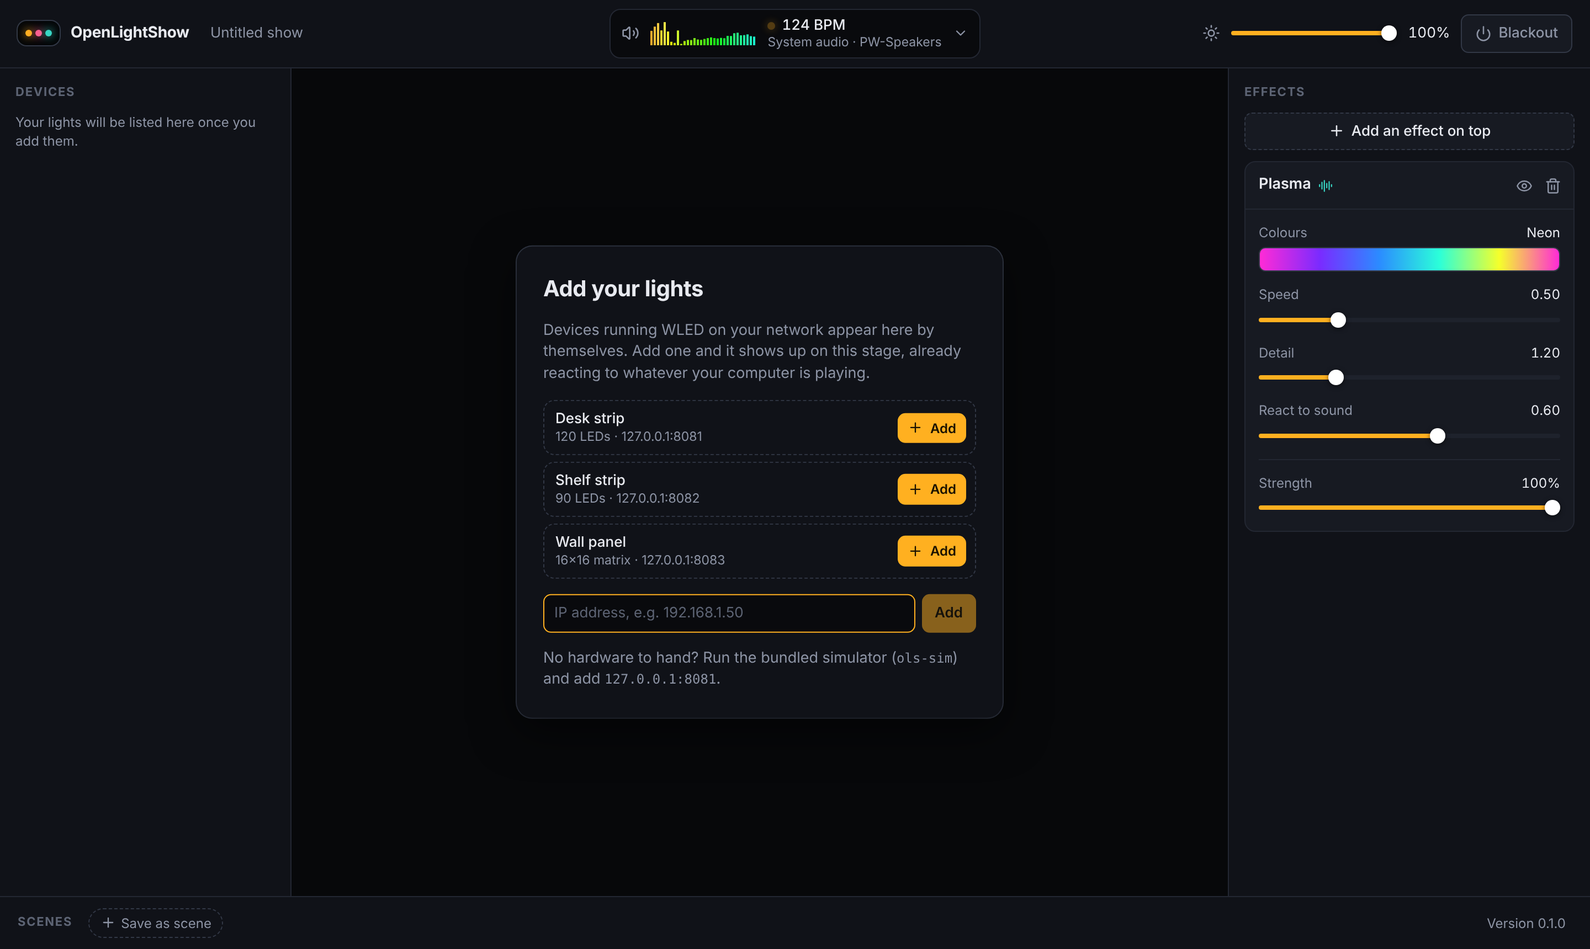
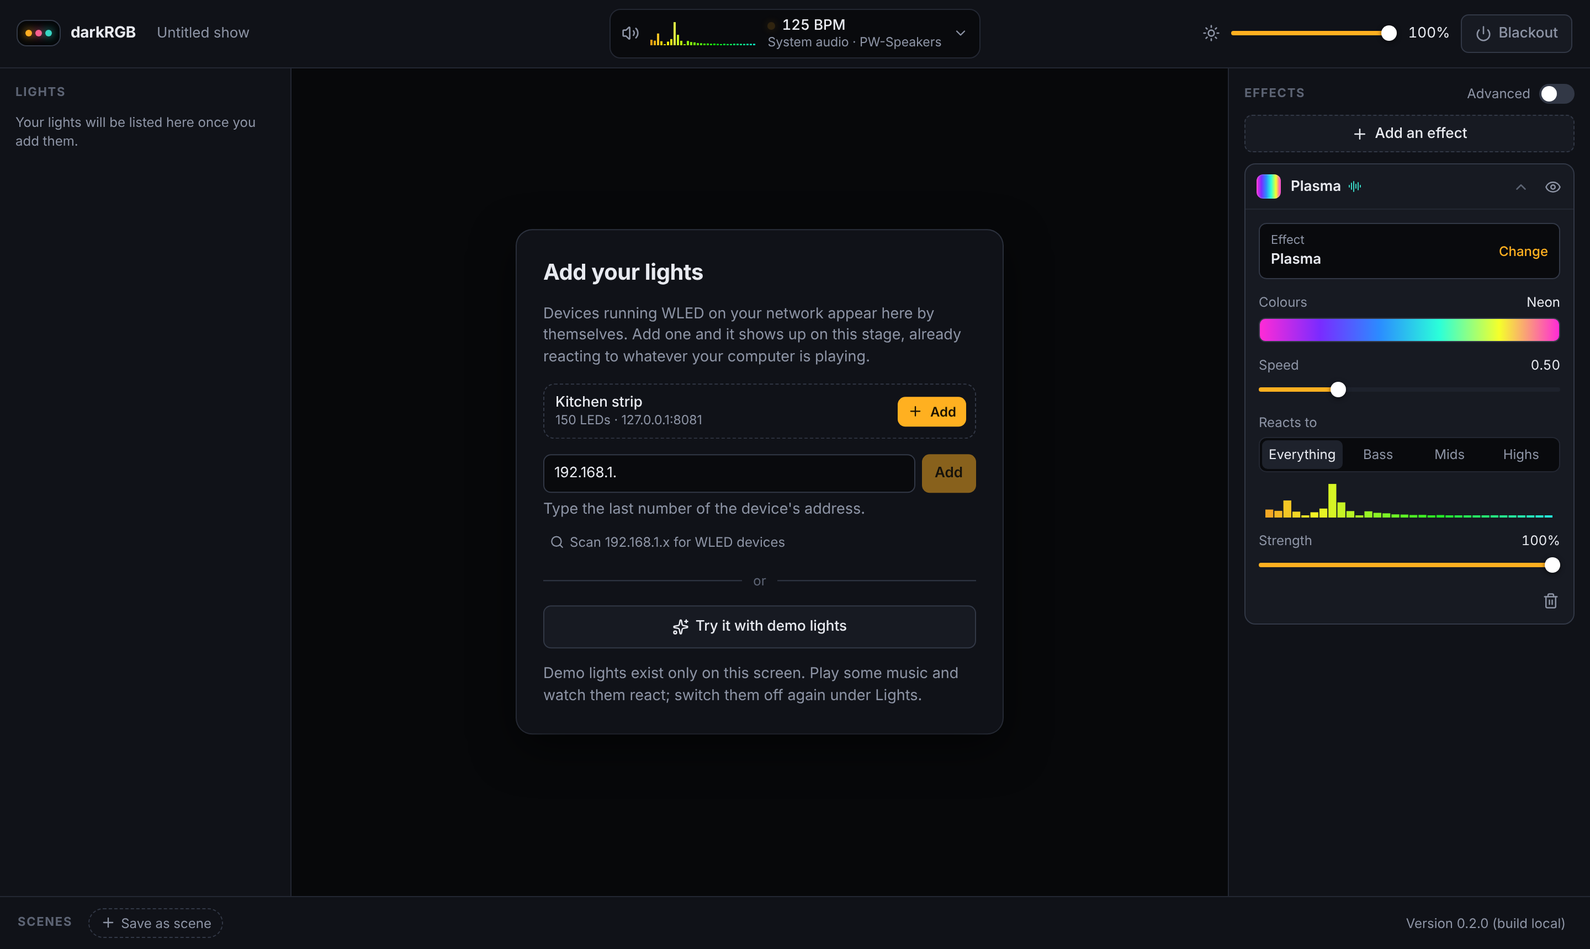
CI for dev with versioned downloads; docs for 0.2.0
- CI runs on dev and main, builds the app window too, names the zips
  darkRGB-<version>-build<n>-<platform>, keeps them a week, and passes
  the build number into the programs.
- README, roadmap and architecture describe darkRGB 0.2.0: the app
  window, demo and virtual lights, sound per layer, the network scan.
  The Windows audio check is recorded as passed.
- Fresh screenshots, including the app in its own window.

diff --git a/docs/architecture.md b/docs/architecture.md
@@ -1,7 +1,7 @@
 # Architecture
 
-Decided on 2026-11-10. As of version 0.1.0 the engine, the device simulator and the UI exist; the desktop
-shell, live mode and the timeline do not. Sections say which parts are built. Items marked **(to verify)** are
+Decided on 2026-11-10. As of version 0.2.0 the engine, the app window, the UI and the device simulator exist;
+live mode and the timeline do not. Sections say which parts are built. Items marked **(to verify)** are
 assumptions that the checks in [roadmap.md](roadmap.md) test.
 
 ## Why installed software, not a website
@@ -25,7 +25,7 @@ a phone on the same network can open it as a remote. A public website is only ne
 |---|---|---|
 | Engine | Rust, a headless process | Steady 60 fps with no garbage-collector pauses; good audio, MIDI and network crates |
 | UI | TypeScript, React, Vite | Largest contributor pool; modern look is easy; WebGL2 for the preview, Canvas for the timeline |
-| Desktop shell | Tauri v2 (not built yet; the UI opens in the browser) | Small installers, auto-update, Windows and Linux packaging |
+| Desktop shell | Tauri v2 | One window with the engine in the same process; installers and auto-update later |
 | Engine to UI | WebSocket and HTTP on localhost | Keeps the shell replaceable; also serves the phone remote and a headless mode |
 
 ```mermaid
@@ -55,9 +55,13 @@ Tauri uses the system WebKitGTK on Linux. Tauri's docs carry a page of workaroun
 WebGPU is not confirmed there, and the Chromium (CEF) backend for Tauri has no release date.
 [Tauri Linux graphics](https://v2.tauri.app/develop/debug/linux-graphics/)
 
-Mitigation: the UI talks to the engine only over the WebSocket, never through Tauri-specific calls for show
-logic. If WebKitGTK is too slow, the same UI runs in Electron on Linux with no engine changes. Design for WebGL2,
-not WebGPU.
+Mitigation: the UI talks to the engine only over the WebSocket, never through Tauri-specific calls. The page
+in the window is given no access to the system at all. `darkrgb-cli` serves the same UI to any browser, which
+is the fallback today, and the same UI would run in Electron on Linux with no engine changes. Design for
+WebGL2, not WebGPU.
+
+Status: the window works on Linux under a virtual display with WebKitGTK 2.52, including the WebGL2 preview.
+Its speed on a real graphics card is not measured.
 
 ### Alternatives considered
 
@@ -72,7 +76,9 @@ not WebGPU.
 
 ### Layout
 
-- A **device** is something on the network: a WLED box, an sACN controller.
+- A **device** is something that shows pixels. It is either a WLED box on the network or a **virtual** light,
+  which exists only in the preview and is never sent anywhere. The built-in demo lights are three virtual
+  lights added and removed as a set.
 - A **fixture** is a strip, matrix or custom shape on a device output, with a pixel count and a position on a 2D
   canvas (3D later).
 - **Groups** collect fixtures.
@@ -99,8 +105,23 @@ not WebGPU.
 - Every change goes through a command. The same commands will serve the UI, the phone remote, MIDI mappings
   and recording. Commands are validated in one place (`crates/engine/src/commands.rs`). Undo is not built.
 
-Built so far: layers that are always on (the audio-reactive case), four blend modes, scenes. Clips with start
-and stop times, modulators other than audio, and recording are not built.
+Built so far: layers that are always on (the audio-reactive case), four blend modes, scenes, and per-layer
+sound settings (below). Clips with start and stop times, modulators on individual parameters, and recording
+are not built.
+
+### What a layer hears
+
+Each layer has sound settings: a **band** (everything, bass, mids, highs, or a custom range across the 32
+bands), a **sensitivity**, and how much its **brightness follows the sound**. The renderer hands each effect
+its own view of the audio (`AudioFeatures::routed` in `crates/core/src/audio.rs`): the level, the bands
+(spread across the full width), and hit detection all come from the chosen part of the spectrum. The beat is
+left alone, since it follows the tempo of the whole song. Effects need no code for any of this.
+
+### Simple first
+
+Every parameter is marked basic or advanced, and the defaults of advanced ones must give a good result
+untouched. The UI shows only basic settings until its Advanced switch is on. Effects also carry a category,
+which groups them in the picker.
 
 ### Effects
 
@@ -124,7 +145,7 @@ and stop times, modulators other than audio, and recording are not built.
 
 | OS | Method | Status |
 |---|---|---|
-| Windows | WASAPI loopback of the default output, through `cpal`: opening an output device as an input stream enables loopback. Needs no driver or user setting. [Microsoft](https://learn.microsoft.com/en-us/windows/win32/coreaudio/loopback-recording) | Written and compiles for Windows; not yet run on Windows |
+| Windows | WASAPI loopback of the default output, through `cpal`: opening an output device as an input stream enables loopback. Needs no driver or user setting. [Microsoft](https://learn.microsoft.com/en-us/windows/win32/coreaudio/loopback-recording) | Passed `audio-test` on one Windows PC (100% of audio received) |
 | Linux | The monitor source of the default sink, through the PulseAudio protocol with the pure-Rust `pulseaudio` client. PipeWire answers the same protocol. | Tested on PulseAudio 16.1 and PipeWire 1.0.5 |
 | macOS | A CoreAudio tap on the default output through `cpal` (macOS 14.6+) | Same code path as Windows; untested |
 
@@ -138,8 +159,12 @@ all of it.
 - Analysis (`crates/audio/src/analysis.rs`): mono mix, a 2048-sample windowed FFT every 512 samples at
   48 kHz, 32 mel bands, automatic gain, onset detection by spectral flux, and a tempo and beat tracker
   (autocorrelation of onset strength, 70 to 190 BPM). Tap tempo is not built.
-- Each band is levelled against its own recent peaks, so treble shows next to a loud kick. The tempo tracker
-  uses the unlevelled signal, weighted toward bass, so hi-hats are not mistaken for the beat.
+- Each band, each group (bass, mids, treble) and the overall level is read between its own recent quiet level
+  and recent peak, so treble shows next to a loud kick and a steady bass line does not hide the kick on top
+  of it. The tempo tracker uses the unlevelled signal, weighted toward bass, so hi-hats are not mistaken for
+  the beat.
+- Hits are detected for the whole spectrum and for bass, mids and treble separately. A group far quieter than
+  the loudest group (22 dB) is treated as spill, so a kick's click is not a treble hit.
 - Latency offset per device. Loopback audio arrives before a Bluetooth speaker plays it, so lights sometimes need
   to be delayed, not sped up.
 - Optional later on Windows: capture one application only, so notification sounds do not flash the lights
@@ -150,7 +175,10 @@ all of it.
 
 ### WLED (first-class)
 
-- **Discovery:** mDNS service `_wled._tcp`.
+- **Discovery:** mDNS service `_wled._tcp`. When that finds nothing (multicast blocked, some Windows setups),
+  the user can scan: the engine asks all 254 addresses of a /24 network for `/json/info`. It runs only on
+  request and only on private address ranges. The UI pre-fills the address field with this computer's network
+  prefix, since devices are almost always on the same network.
 - **Auto-setup:** `GET /json/info` gives `leds.count`, `leds.matrix.w` and `.h` for 2D setups, `name`, `mac`,
   `ver`, `arch`, and whether another source is streaming (`live`, `lm`, `lip`).
   [JSON API](https://kno.wled.ge/interfaces/json-api/)
@@ -236,6 +264,8 @@ Planned: a folder per show with a `media/` folder for songs and images. Shared s
 | WLED HTTP | `ureq` | Requests never go through a system proxy |
 | Server | `axum`, `tokio` | |
 | Embedding the UI | `rust-embed` | The built UI is compiled into the program |
+| App window | `tauri` 2, `tauri-plugin-single-instance` | The window loads the engine's own local URL |
+| Local networks | `if-addrs` | For suggesting addresses and scanning |
 | Frame pacing | `spin_sleep` | |
 
 Planned: `midir` (MIDI), `sacn` (sACN), own code for Art-Net, `symphonia` (song decoding).
@@ -249,13 +279,12 @@ and file formats).
 
 ```
 crates/
-  darkrgb-core/     layout, layers, effects, renderer (no I/O)
-  darkrgb-audio/    capture and analysis
-  darkrgb-output/   DDP, WLED info, discovery
-  darkrgb-engine/   the program: frame loop, commands, server, diagnostics
-  darkrgb-sim/      a pretend WLED device for tests and demos
-ui/             React + Vite
+  core/      layout, layers, effects, renderer (no I/O)
+  audio/     capture and analysis
+  output/    DDP, WLED info, discovery, network scan
+  engine/    the engine as a library (`Engine::start`), and darkrgb-cli
+  desktop/   darkrgb: the app window
+  sim/       a pretend WLED device for tests
+ui/          React + Vite
 docs/
 ```
-
-Planned: `apps/desktop/` for the Tauri shell.

diff --git a/README.md b/README.md
@@ -10,66 +10,82 @@ between them:
 It targets ESP32 controllers running [WLED](https://kno.wled.ge/) first, then generic sACN and Art-Net pixel
 controllers.
 
-![The app with two strips and a matrix reacting to music](docs/images/main.png)
+![darkRGB with demo lights reacting to music](docs/images/main.png)
 
 ## Status
 
-Version 0.1.0, in development. The first mode, audio-reactive, works end to end against simulated devices on
-Linux. The automated tests also pass on Windows, but nobody has run the app there yet, and it has never driven
-real WLED hardware; see [docs/roadmap.md](docs/roadmap.md) for what is proven and what is not. Live and
-timeline modes are not started.
+Version 0.2.0, in development. The first mode, audio-reactive, works end to end. Live and timeline modes are not
+started.
+
+| | Linux | Windows |
+|---|---|---|
+| Automated tests | pass | pass |
+| System audio with no setup | works (PulseAudio and PipeWire, tested with virtual speakers) | works (checked on one Windows PC) |
+| The app window | works (tested under a virtual display) | builds; not yet run by anyone |
+| Real WLED hardware | not yet tried | not yet tried |
+
+The effects have only met synthetic test songs so far, so expect them to need tuning against real music. See
+[docs/roadmap.md](docs/roadmap.md) for the details.
 
 What works today:
 
-- Finds WLED devices on the network (mDNS) or adds them by IP address, and reads their LED count and matrix size.
-- Streams 60 frames per second over DDP.
-- Captures system audio with no setup and analyses it: loudness, 32 frequency bands, onsets, tempo and beats.
-- Ten effects with live controls, stacked in layers, each on all lights or chosen ones.
+- Opens as one window. Finds WLED devices on the network, adds them by address, or scans the network for them.
+- Demo lights and virtual lights that exist only on screen, for trying effects and planning layouts without
+  hardware.
+- Captures system audio with no setup and analyses it: loudness, 32 frequency bands, hits in bass, mids and
+  highs, tempo and beats.
+- Ten effects in layers. Each can play on all lights or chosen ones, and react to everything, bass, mids,
+  highs or a frequency range you pick.
 - A live preview where strips and matrices are arranged by dragging.
 - Scenes, master brightness and blackout. The show saves itself.
-
-The UI opens in your browser for now. A desktop window (Tauri) comes later.
+- Simple by default; an Advanced switch reveals the rest.
 
 ## Try it
 
 Builds for Windows and Linux are attached to each run of the
-[CI workflow](../../actions/workflows/ci.yml) (open the latest run, download the artifact, unzip).
+[CI workflow](../../actions/workflows/ci.yml): open the latest run on `dev`, download the zip for your system,
+unzip. The zip is named with the version and build number, which the app also shows in its bottom corner.
+
+| Program | What it is |
+|---|---|
+| `darkrgb` | The app. Double-click it. On first run, choose "Try it with demo lights" if you have no hardware to hand. |
+| `darkrgb-cli` | The same engine from a terminal. Opens the UI in your browser, and has the checks below. |
+
+Windows will warn that the programs are unsigned. On Linux the app needs WebKitGTK 4.1 (`libwebkit2gtk-4.1-0`,
+present on most desktops); `darkrgb-cli` needs nothing extra.
 
 ```
-darkrgb-cli              start the app and open the UI
-darkrgb-cli audio-test   check that system audio is captured with no setup
-darkrgb-cli ddp-test IP  stream a test pattern to one WLED device and report how steady it was
-darkrgb-cli discover     list WLED devices found on the network
-darkrgb-cli --help       all options
+darkrgb-cli                start the engine and open the UI in a browser
+darkrgb-cli --lan          also let phones on your network open it (no password yet)
+darkrgb-cli audio-test     check that system audio is captured with no setup
+darkrgb-cli ddp-test IP    stream a test pattern to one WLED device and report how steady it was
+darkrgb-cli discover       list WLED devices found on the network
+darkrgb-cli --help         all options
 ```
 
-No hardware? Run `darkrgb-sim`, which pretends to be two WLED devices on this computer. They appear in the app
-like real ones; if they do not, add `127.0.0.1:8081` and `127.0.0.1:8082` by address.
+### The check that still needs real hardware
 
-### Checks that still need real hardware
-
-Two things cannot be proven without a real computer and real lights. Each takes a minute:
-
-1. Play music, then run `darkrgb-cli audio-test`. It should end with `RESULT: OK` and name your speakers or
-   headphones. This matters most on Windows, where it has never been run.
-2. Run `darkrgb-cli ddp-test` followed by a WLED device's IP address. A white dot should glide along the
-   lights without stutter for 20 seconds, and the command prints how steady the stream was.
-
-Please report what each one prints, the WLED version, the LED count, and whether the device is on WiFi or
-Ethernet.
+Run `darkrgb-cli ddp-test` followed by a WLED device's IP address. A white dot should glide along the lights
+without stutter for 20 seconds, and the command prints how steady the stream was. Please report what it prints,
+the WLED version, the LED count, and whether the device is on WiFi or Ethernet.
 
 ## Build from source
 
-Needs [Rust](https://rustup.rs/) and [Node.js](https://nodejs.org/) 22 with [pnpm](https://pnpm.io/).
+Needs [Rust](https://rustup.rs/) (the version in `rust-toolchain.toml` is installed for you) and
+[Node.js](https://nodejs.org/) 22 with [pnpm](https://pnpm.io/). The app window also needs, on Linux:
+
+```
+sudo apt install libwebkit2gtk-4.1-dev libgtk-3-dev libxdo-dev librsvg2-dev libayatana-appindicator3-dev
+```
 
 ```
 cd ui && pnpm install && pnpm build && cd ..
-cargo build --release -p darkrgb-engine -p darkrgb-sim
-./target/release/darkrgb-cli
+cargo build --release -p darkrgb-desktop -p darkrgb-engine
+./target/release/darkrgb
 ```
 
-The UI is embedded in the program, so build it first. `cargo test --workspace` runs the tests, including
-end-to-end tests that drive a simulated device.
+The UI is embedded in the programs, so build it first. `cargo test` runs the tests, including end-to-end tests
+that drive a simulated device; it does not build the app window, so it needs none of the Linux packages above.
 
 To work on the UI with live reload, run the engine and Vite side by side:
 
@@ -78,21 +94,25 @@ cargo run -p darkrgb-engine -- --no-open
 cd ui && pnpm dev          # then open http://localhost:5173
 ```
 
+`cargo run -p darkrgb-sim` starts pretend WLED devices that speak the real network protocol, for testing
+discovery and streaming without hardware.
+
 ## Layout
 
 ```
-crates/core     layout, layers, effects, renderer (no I/O)
-crates/audio    audio capture and analysis
-crates/output   DDP, WLED info, discovery
-crates/engine   the app: frame loop, commands, server, diagnostics
-crates/sim      a pretend WLED device for tests and demos
-ui/                 the interface (React, TypeScript, Vite)
-docs/               research, architecture, roadmap
+crates/core      layout, layers, effects, renderer (no I/O)
+crates/audio     audio capture and analysis
+crates/output    DDP, WLED info, discovery, network scan
+crates/engine    the engine as a library, and darkrgb-cli
+crates/desktop   darkrgb, the app window (Tauri)
+crates/sim       a pretend WLED device for tests
+ui/              the interface (React, TypeScript, Vite)
+docs/            research, architecture, roadmap
 ```
 
 - [docs/research.md](docs/research.md): what xLights, Vixen and LedFx do well, where they hurt, and the gap.
 - [docs/architecture.md](docs/architecture.md): the stack and the core design.
-- [docs/roadmap.md](docs/roadmap.md): what is proven, milestones and open decisions.
+- [docs/roadmap.md](docs/roadmap.md): what is proven, what comes next, open decisions.
 - [CHANGELOG.md](CHANGELOG.md): what's new in each version.
 
 ## Licence

diff --git a/docs/roadmap.md b/docs/roadmap.md
@@ -4,40 +4,53 @@ Written on 2026-11-10. Order: audio-reactive first, then live control, then the 
 features. The design targets room/desk setups (a few WLED devices, up to a few thousand pixels) and house/yard
 shows (many controllers, 5k to 50k pixels). See [architecture.md](architecture.md) for the design.
 
+Version numbers go up with each round of work and are not tied to the stages below.
+
 ## 0. Checks that need real hardware
 
-The plan rests on a few assumptions. Each has a check; the app's own diagnostics run the first three.
+The plan rests on a few assumptions. Each has a check; `darkrgb-cli` runs the first three.
 
 | Check | Done when | Status on 2026-11-10 |
 |---|---|---|
 | System audio on Linux | Live levels from whatever is playing, with no setup, following the default output | Passed in a container with virtual outputs, on PulseAudio 16.1 and PipeWire 1.0.5: all audio received, a burst detected within about 30 ms, default-output changes followed. Not yet run on a desktop with real speakers. |
-| System audio on Windows | The same, through WASAPI loopback | Code written. The automated tests pass on Windows in CI, but that machine has no sound device, so capture itself is **not run.** `darkrgb-cli audio-test` |
+| System audio on Windows | The same, through WASAPI loopback | **Passed** on the owner's Windows PC: `audio-test` reported 100% of the audio received. One machine so far. |
 | DDP to a real WLED | 60 fps to a physical ESP32 for 10 minutes without visible stutter, on WiFi and on Ethernet | Passed against the simulator (60 fps, under 1 ms jitter on one machine). **Not run on hardware.** `darkrgb-cli ddp-test IP` |
-| Preview speed in WebKitGTK | 10,000 points at 30 fps or better in a Linux webview | **Not run.** Chromium shows 466 points at 60 fps with software rendering. |
-| Key handling | Key down and up arrive reliably in the webview, several keys held | **Not run.** Belongs to live mode. |
+| The app window on Windows | It opens, shows the UI and closes cleanly | It builds in CI. **Not run by anyone yet.** |
+| Preview speed in the Linux app window | 10,000 points at 30 fps or better in WebKitGTK | The window works and draws the preview under a virtual display with software rendering. Speed on a real graphics card is **not measured.** |
+| Key handling | Key down and up arrive reliably in the app window, several keys held | **Not run.** Belongs to live mode. |
 
-If the preview check fails on Linux, the Linux shell becomes Electron. If it fails everywhere, fall back to a
-pure-Rust UI.
+If the preview is too slow in the Linux window, `darkrgb-cli` (browser) is the fallback today, and Electron on
+Linux the longer-term one.
 
-## 1. Audio-reactive MVP (version 0.1)
+## 1. Audio-reactive
 
 Built:
 
-- Finds WLED devices on the network and reads their LED count and matrix size; add by address as a fallback.
+- One app window (Tauri) with the engine inside; `darkrgb-cli` for terminals, browsers and the checks.
+- Finds WLED devices on the network and reads their LED count and matrix size; adds by address with the
+  network's prefix filled in; scans a network on request.
+- Demo lights and virtual lights that exist only in the preview.
 - Fixtures placed on a 2D canvas by dragging, with rotate, resize and reverse.
-- Ten effects with parameters, in layers with four blend modes, each on all lights or chosen ones.
+- Ten effects in layers with four blend modes, each on all lights or chosen ones. Layers collapse, reorder by
+  dragging, and can be renamed and duplicated.
+- Each layer hears everything, bass, mids, highs or a custom range, with its own sensitivity, and its
+  brightness can follow the sound.
+- Simple by default: parameters are marked basic or advanced, and an Advanced switch reveals the rest.
 - Live preview from the same frames the lights get.
-- Zero-setup audio on Linux (Windows written, untested).
+- Zero-setup audio on Linux and Windows.
 - Scenes, master brightness, blackout. The show saves itself.
 - A simulated WLED device, used by the end-to-end tests.
 
-Left before 0.1 is done:
+Left before this stage is done:
 
 - Run the hardware checks above and fix what they find.
 - Tune the effects and the audio levelling against real music and real LEDs. So far they have only met
   synthetic test songs. `cargo run --release -p darkrgb-audio --example spread` prints how much each audio feature
   moves, which is the number to watch.
-- Desktop window (Tauri) and installers. Today the UI opens in the browser.
+- Link any slider to the sound, the beat or a slow wave ("modulators"). Today only brightness can follow sound.
+- Custom light shapes (a drawn line, a ring, a list of points) for virtual and real lights.
+- Turn a virtual light into a real one by pointing it at a device, keeping its place and effects.
+- Installers and a signed Windows build. Today the download is a zip of two programs.
 - Warn when a WLED setting fights the stream (its own brightness or gamma on realtime data).
 - Rename fixtures in the UI (devices can be renamed); split one device into several fixtures.
 - Undo.
@@ -45,7 +58,7 @@ Left before 0.1 is done:
 Done when a new user can install the app, see their WLED devices, and have them reacting to music in under two
 minutes.
 
-## 2. Live mode (0.2)
+## 2. Live mode
 
 - Grid of clips and scenes.
 - Keyboard and MIDI mapping with a "learn" button; flash, toggle and hold behaviours.
@@ -55,7 +68,7 @@ minutes.
 
 Done when a full song can be performed from the keyboard without touching the mouse.
 
-## 3. Timeline (0.3)
+## 3. Timeline
 
 - Import a song; show its waveform and an automatic beat grid.
 - Clips on layers with trim, move and snap to beats.
@@ -65,7 +78,7 @@ Done when a full song can be performed from the keyboard without touching the mo
 
 Done when a three-minute show can be recorded live, cleaned up in the editor and played back in sync.
 
-## 4. Yard scale (0.4)
+## 4. Yard scale
 
 - sACN and Art-Net controllers.
 - Import an xLights layout.
@@ -91,7 +104,8 @@ Done when a three-minute show can be recorded live, cleaned up in the editor and
 |---|---|---|
 | Licence | Decided 2026-11-10: GPL-3.0-or-later | xLights, LedFx and the aubio beat library are GPL-3, so this allows porting their effects. |
 | Name | Decided 2026-11-10: darkRGB | The first name, OpenLightShow, clashed with an existing Python app of the same name and kind ([digidigital/openlightshow](https://github.com/digidigital/openlightshow), on PyPI as `openlightshow`). For darkRGB no GitHub repo, user or organisation of that name was found, `darkrgb` was free on crates.io, npm and PyPI, and web searches found no product called that. This is not a trademark search. Names ending in "RGB" usually mean PC keyboard and fan lighting, so some people will assume that first. |
-| Linux shell | Tauri (WebKitGTK) or Electron | Decided by the preview check above. |
+| Linux shell | Tauri (WebKitGTK) or Electron | Tauri is built and works. Electron only if the preview proves too slow on real hardware. |
+| Phone remote | Password or pairing code for `--lan` | Needed before recommending `--lan`. Today anyone on the network can control the lights. |
 | Windows code signing | Sign or ship unsigned | Unsigned installers trigger SmartScreen warnings; certificates cost money. Ship unsigned until there are users. |
 
 ## Things to keep in mind
